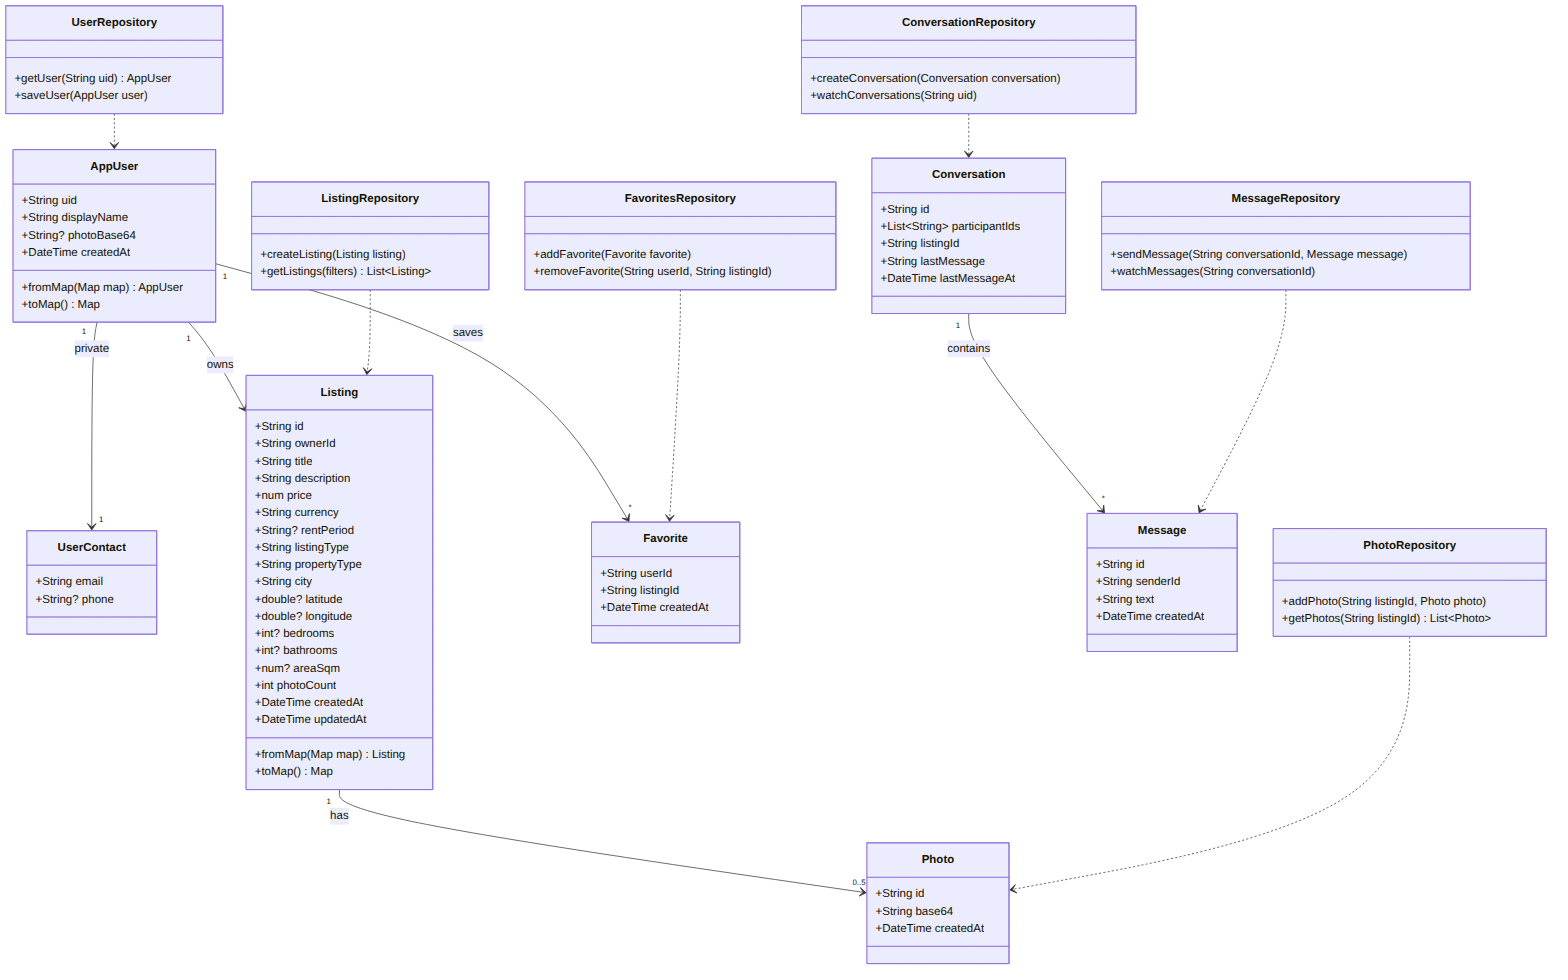
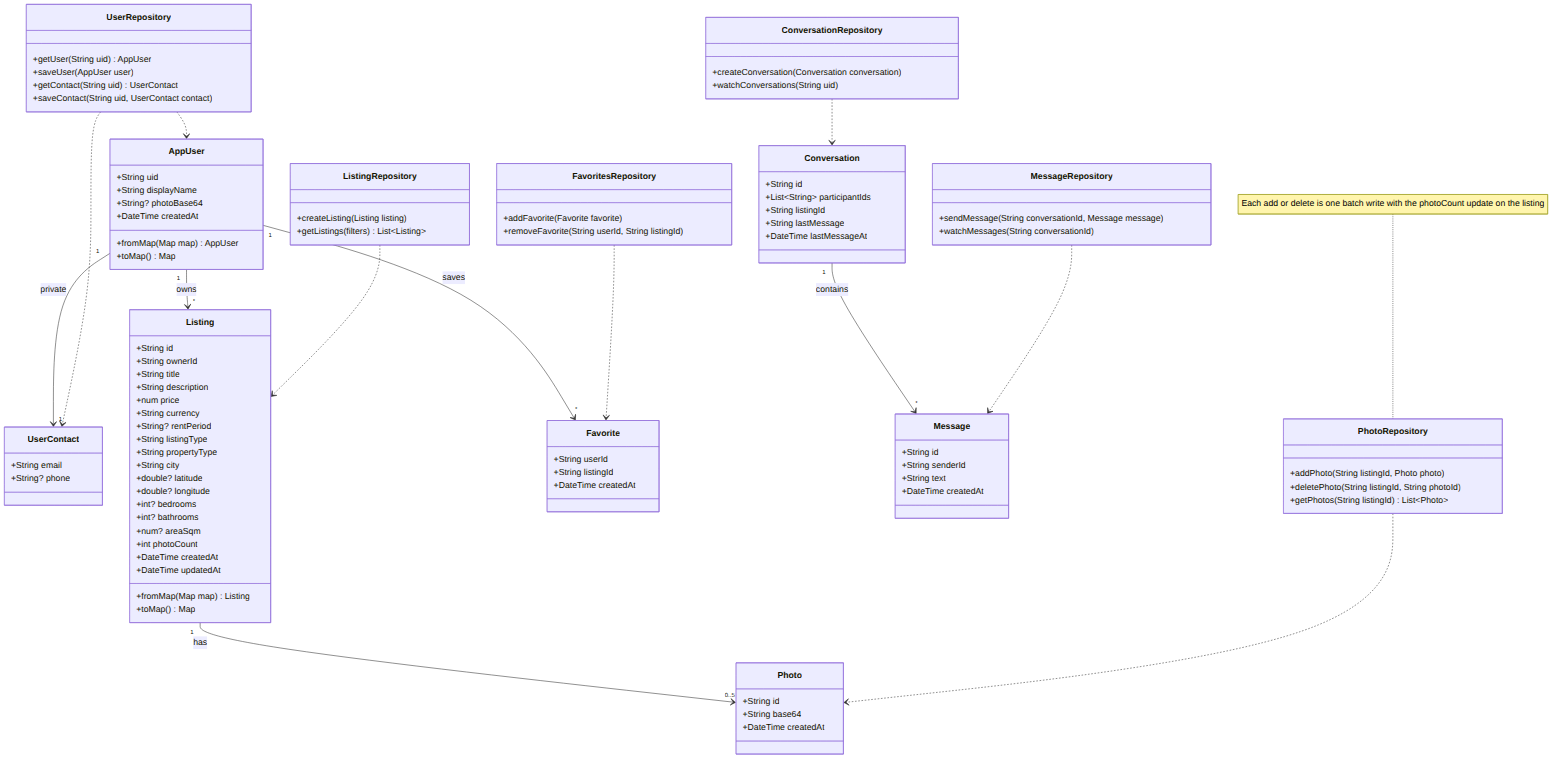
docs(data-model): freeze v3, add private contact class and photoCount batch [VST-30]

diff --git a/docs/data-model.md b/docs/data-model.md
@@ -1,4 +1,4 @@
-# Vesta Firestore data model (v3 draft, after Manar's and Eya's feedback)
+# Vesta Firestore data model (v3, frozen)
 
 Single reference for the Firestore collections used by both apps (Flutter and React Native).
 Prices are stored as a number with a currency code. The currency code is read from the app config (TND) and is never hardcoded in the apps or in the rules.
@@ -7,8 +7,8 @@ Prices are stored as a number with a currency code. The currency code is read fr
 |---|---|---|---|
 | `users` | Auth `uid` | `displayName` (string), `photoBase64` (string, optional, compressed, under 200 KB), `createdAt` (server timestamp) | Create/update/delete: the user only. Read: any signed-in user (public profile, shown in listings and chat). |
 | `users/{uid}/private/contact` | `contact` | `email` (string), `phone` (string, optional) | Read/write: the user only. |
-| `listings` | auto-id | `ownerId` (string), `title` (string), `description` (string), `price` (number), `currency` (string of 3 letters, from the app config, TND), `rentPeriod` (`"night"`, `"month"` or `"year"`, required only when `listingType` is `"rent"`), `listingType` (`"sale"` or `"rent"`), `propertyType` (string, see values below), `city` (string), `latitude` (number, optional), `longitude` (number, optional), `bedrooms` (number, optional), `bathrooms` (number, optional), `areaSqm` (number, optional, square meters), `photoCount` (number), `createdAt` (server timestamp), `updatedAt` (server timestamp) | Read: any signed-in user. Create: signed-in user with `ownerId == uid`. Update/delete: owner only. Optional numbers must be numbers when present. |
-| `listings/{id}/photos` | fixed ids `p0` to `p4` | `base64` (string, compressed, under 200 KB), `createdAt` (server timestamp) | Read: signed-in user. Create/update/delete: listing owner only. The 5 fixed ids enforce the maximum of 5 photos. The id gives the display order. |
+| `listings` | auto-id | `ownerId` (string), `title` (string), `description` (string), `price` (number), `currency` (string of 3 letters, from the app config, TND), `rentPeriod` (`"night"`, `"month"` or `"year"`, required only when `listingType` is `"rent"`), `listingType` (`"sale"` or `"rent"`), `propertyType` (string, see values below), `city` (string), `latitude` (number, optional), `longitude` (number, optional), `bedrooms` (number, optional), `bathrooms` (number, optional), `areaSqm` (number, optional, square meters), `photoCount` (number, kept in sync with the photos, see decisions), `createdAt` (server timestamp), `updatedAt` (server timestamp) | Read: any signed-in user. Create: signed-in user with `ownerId == uid`. Update/delete: owner only. Optional numbers must be numbers when present. |
+| `listings/{id}/photos` | fixed ids `p0` to `p4` | `base64` (string, compressed, under 200 KB), `createdAt` (server timestamp) | Read: signed-in user. Create/update/delete: listing owner only. The 5 fixed ids enforce the maximum of 5 photos. The id gives the display order. Each add or delete is one batch write together with the `photoCount` update on the listing. |
 | `favorites` | `{uid}_{listingId}` | `userId` (string), `listingId` (string), `createdAt` (server timestamp) | Read/create/delete: the user only. |
 | `conversations` | `{listingId}_{buyerId}` | `participantIds` (array of exactly 2 uids), `listingId` (string), `lastMessage` (string), `lastMessageAt` (server timestamp) | Read/create/update: participants only. |
 | `conversations/{id}/messages` | auto-id | `senderId` (string), `text` (string), `createdAt` (server timestamp) | Read: participants (rules read the parent conversation). Create: participant with `senderId == uid`. No edit or delete. |
@@ -28,6 +28,7 @@ The same list is used everywhere: data model, rules, filters and mockups.
 - `latitude`, `longitude`, `bedrooms`, `bathrooms` and `areaSqm` are optional. The map only shows listings that have coordinates.
 - A conversation id is `{listingId}_{buyerId}`, so there is one conversation per buyer and per listing. `participantIds` always holds exactly 2 uids.
 - The user profile has a public part (`users/{uid}`: name and photo, readable by any signed-in user, so names and photos show in listings and chat) and a private part (`users/{uid}/private/contact`: email and phone, readable only by the user).
+- `photoCount` stays in sync with the photos: adding or deleting a photo and updating `photoCount` on the listing are done in one batch write (one atomic write, never two separate ones).
 - `createdAt` and `updatedAt` are server timestamps.
 
 ## Indexes (start, final list comes from the Search queries, VST-40)
